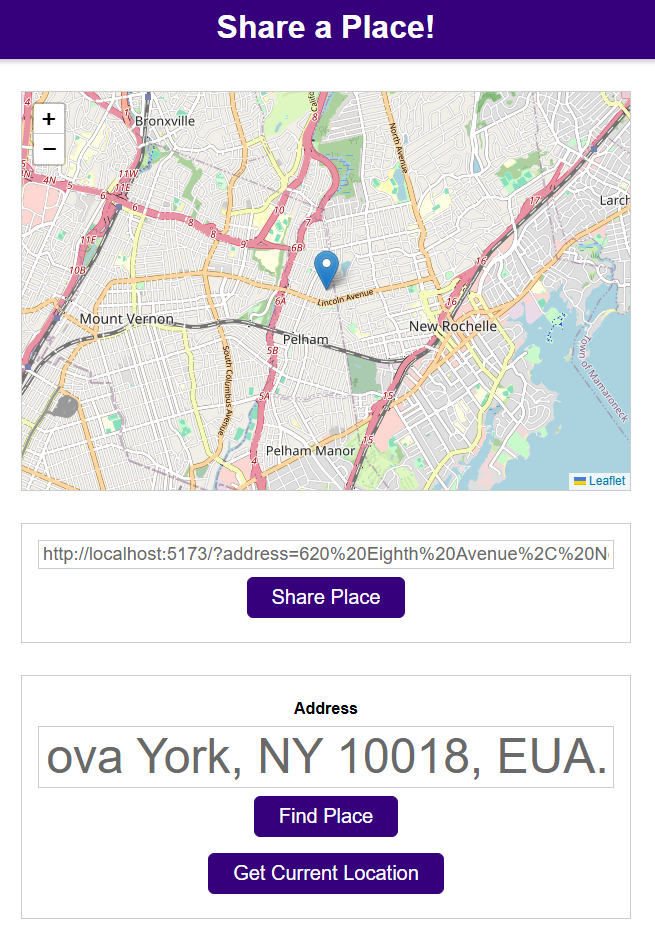
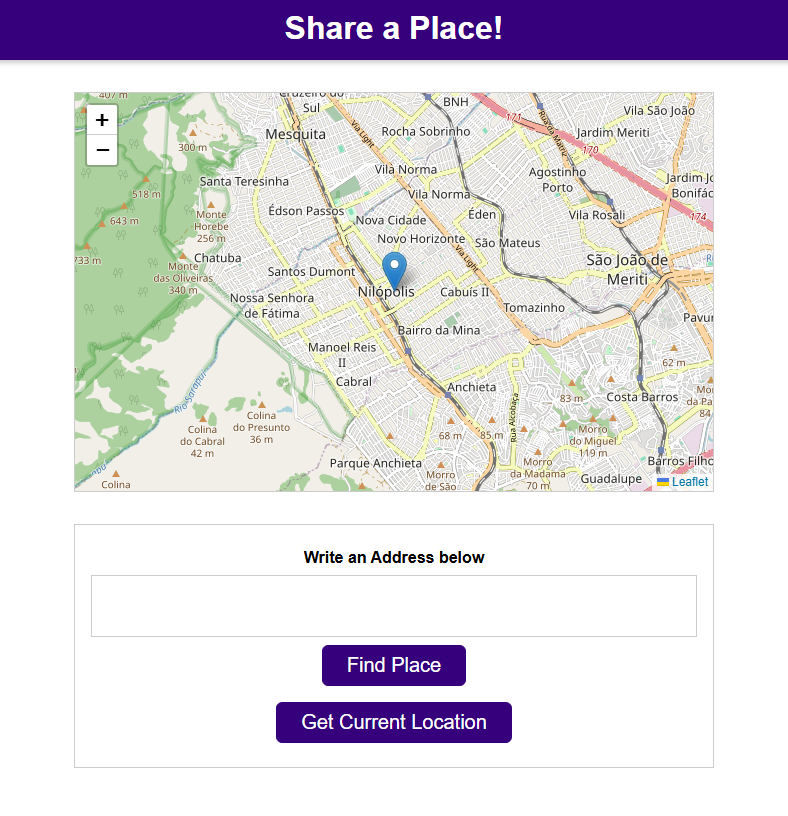
fix: update modal.js to Modal.js casing and modify address label in index.html

diff --git a/src/main.js b/src/main.js
@@ -24,20 +24,7 @@ class PlaceFinder {
     this.map = null;
 
     locateUserBtn.addEventListener("click", this.locateUserHandler.bind(this));
-    this.shareBtn.addEventListener("click", this.sharePlaceHandler.bind(this));
     addressForm.addEventListener("submit", this.findAddressHandler.bind(this));
-  }
-
-  sharePlaceHandler() {
-    const sharedLinkInputElement = document.getElementById("share-link");
-    if (!navigator.clipboard) {
-      sharedLinkInputElement.select();
-      return;
-    }
-
-    navigator.clipboard.writeText(sharedLinkInputElement.value).then(() => {
-      alert("Copied into clipboard!");
-    });
   }
 
   selectPlace(coordinates, address) {

diff --git a/index.html b/index.html
@@ -32,14 +32,9 @@
     </div>
   </section>
 
-  <section id="share-controls">
-    <input id="share-link" type="text" readonly value="Select a place to get a sharable link." />
-    <button id="share-btn" disabled>Share Place</button>
-  </section>
-
   <section id="place-data">
     <form>
-      <label for="address">Address</label>
+      <label for="address">Write an Address below</label>
       <input type="text" />
       <button type="submit">Find Place</button>
     </form>

diff --git a/README.md b/README.md
@@ -70,7 +70,7 @@ Icons: https://simpleicons.org/
 ├── src/
 │   ├── UI/
 │   │   ├── Map.js
-│   │   └── modal.js
+│   │   └── Modal.js
 │   ├── Utility/
 │   │   └── Location.js
 │   ├── main.js
@@ -84,7 +84,7 @@ Icons: https://simpleicons.org/
 
 - [src/main.js](src/main.js): handles search, geolocation, map updates, and sharing.
 - [src/UI/Map.js](src/UI/Map.js): renders and updates the map with Leaflet.
-- [src/UI/modal.js](src/UI/modal.js): loading modal during requests.
+- [src/UI/Modal.js](src/UI/Modal.js): loading modal during requests.
 - [src/Utility/Location.js](src/Utility/Location.js): Nominatim integration for geocoding and reverse geocoding.
 - [src/style.css](src/style.css): global UI styles.
 - [index.html](index.html): base page structure.
@@ -93,7 +93,7 @@ Icons: https://simpleicons.org/
 
 ### Prerequisites
 
-- Node.js 18+ (recommended)
+- Node.js 20.19+ or 22.12+ (recommended)
 - npm
 - Vite
 
